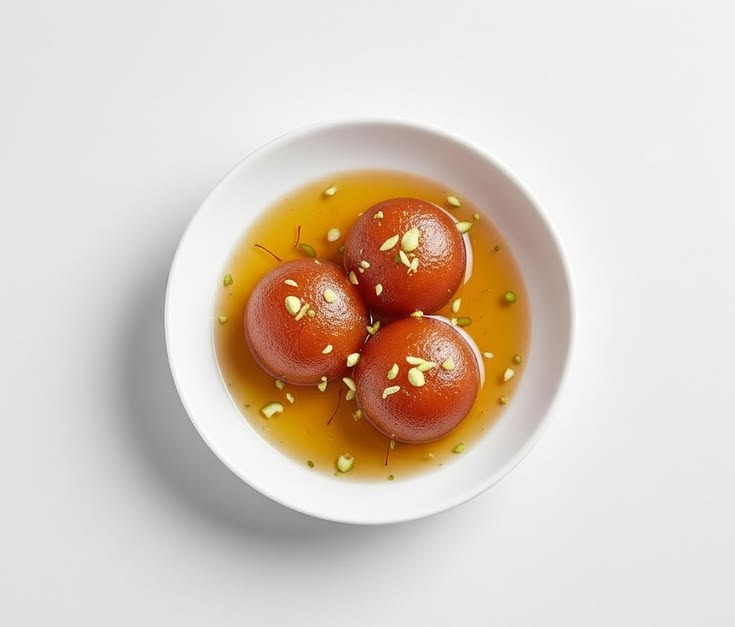
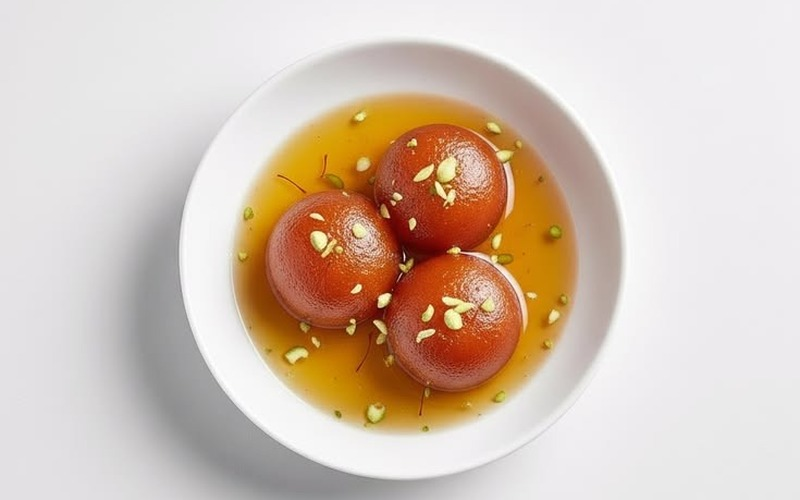
feat: standardize all dish images to fixed 800x500 dimensions and map 9 pasta & maggi dishes

Changed region(s): [[0.1497, 0.06, 0.7782, 1.0], [0.2395, 0.3, 0.2993, 0.39], [0.2095, 0.39, 0.2395, 0.45]]

diff --git a/src/data/menuData.js b/src/data/menuData.js
@@ -2822,7 +2822,7 @@ export const menuItems = [
     "isVeg": true,
     "isSpecial": false,
     "description": "Penne pasta tossed in spicy Indian onion-tomato masala with herbs.",
-    "image": "https://images.unsplash.com/photo-1621996346565-e3d5d6281724?q=80&w=800&auto=format&fit=crop"
+    "image": "/dishes/indian-masala-pasta.jpg"
   },
   {
     "id": "dish-270",
@@ -2832,7 +2832,7 @@ export const menuItems = [
     "isVeg": true,
     "isSpecial": false,
     "description": "Penne pasta in creamy b\u00e9chamel cheese sauce with sweet corn and bell peppers.",
-    "image": "https://images.unsplash.com/photo-1621996346565-e3d5d6281724?q=80&w=800&auto=format&fit=crop"
+    "image": "/dishes/white-sauce-pasta.jpg"
   },
   {
     "id": "dish-271",
@@ -2842,7 +2842,7 @@ export const menuItems = [
     "isVeg": true,
     "isSpecial": false,
     "description": "Penne pasta tossed in tangy Italian marinara tomato basil sauce.",
-    "image": "https://images.unsplash.com/photo-1621996346565-e3d5d6281724?q=80&w=800&auto=format&fit=crop"
+    "image": "/dishes/red-sauce-pasta.jpg"
   },
   {
     "id": "dish-272",
@@ -2932,7 +2932,7 @@ export const menuItems = [
     "isVeg": true,
     "isSpecial": false,
     "description": "Steaming hot classic 2-minute comfort noodles.",
-    "image": "https://images.unsplash.com/photo-1612927601601-6638404737ce?q=80&w=800&auto=format&fit=crop"
+    "image": "/dishes/plain-maggi.jpg"
   },
   {
     "id": "dish-281",
@@ -2942,7 +2942,7 @@ export const menuItems = [
     "isVeg": true,
     "isSpecial": false,
     "description": "Hot Maggi noodles topped with sweet corn and melted cheese.",
-    "image": "https://images.unsplash.com/photo-1612927601601-6638404737ce?q=80&w=800&auto=format&fit=crop"
+    "image": "/dishes/cheese-corn-maggi.jpg"
   },
   {
     "id": "dish-282",
@@ -2952,7 +2952,7 @@ export const menuItems = [
     "isVeg": true,
     "isSpecial": false,
     "description": "Maggi noodles tossed with saut\u00e9ed onions, tomatoes, and green peas.",
-    "image": "https://images.unsplash.com/photo-1612927601601-6638404737ce?q=80&w=800&auto=format&fit=crop"
+    "image": "/dishes/indian-masala-maggi.jpg"
   },
   {
     "id": "dish-283",
@@ -2962,7 +2962,7 @@ export const menuItems = [
     "isVeg": true,
     "isSpecial": false,
     "description": "Comforting Maggi noodles blended with creamy melted cheese.",
-    "image": "https://images.unsplash.com/photo-1612927601601-6638404737ce?q=80&w=800&auto=format&fit=crop"
+    "image": "/dishes/cheese-maggi.jpg"
   },
   {
     "id": "dish-284",
@@ -2972,7 +2972,7 @@ export const menuItems = [
     "isVeg": true,
     "isSpecial": false,
     "description": "Stir-fried dry Maggi noodles with crunchy vegetables and spices.",
-    "image": "https://images.unsplash.com/photo-1612927601601-6638404737ce?q=80&w=800&auto=format&fit=crop"
+    "image": "/dishes/dry-fry-maggi.jpg"
   },
   {
     "id": "dish-285",
@@ -2982,7 +2982,7 @@ export const menuItems = [
     "isVeg": true,
     "isSpecial": false,
     "description": "Maggi noodles topped with grilled spiced paneer tikka chunks.",
-    "image": "https://images.unsplash.com/photo-1612927601601-6638404737ce?q=80&w=800&auto=format&fit=crop"
+    "image": "/dishes/paneer-tikka-maggi.jpg"
   },
   {
     "id": "dish-286",

diff --git a/src/components/MenuCard.jsx b/src/components/MenuCard.jsx
@@ -15,14 +15,14 @@ export default function MenuCard({ item, onSelect }) {
     >
       {/* Food Photograph / Consistent Visual Container */}
       <div>
-        <div className="relative aspect-[16/10] overflow-hidden bg-forest-dark select-none">
+        <div className="relative w-full aspect-[16/10] overflow-hidden bg-forest-dark select-none">
           {hasImage ? (
             <img
               src={item.image}
               alt={displayName}
               loading="lazy"
               onError={() => setImgError(true)}
-              className="w-full h-full object-cover transform group-hover:scale-105 transition-transform duration-700 ease-out"
+              className="w-full h-full object-cover object-center transform group-hover:scale-105 transition-transform duration-700 ease-out"
             />
           ) : (
             /* Graceful Placeholder when Image is Not Available */

diff --git a/src/components/MenuItemModal.jsx b/src/components/MenuItemModal.jsx
@@ -37,14 +37,14 @@ export default function MenuItemModal({ item, onClose }) {
           <X size={20} />
         </button>
 
-        {/* Modal Image Header */}
-        <div className="relative aspect-[16/9] w-full bg-forest-dark overflow-hidden">
+        {/* Modal Image Header with Fixed Aspect Ratio */}
+        <div className="relative aspect-[16/10] sm:aspect-[16/9] max-h-80 w-full bg-forest-dark overflow-hidden">
           {hasImage ? (
             <img
               src={item.image}
               alt={displayName}
               onError={() => setImgError(true)}
-              className="w-full h-full object-cover"
+              className="w-full h-full object-cover object-center"
             />
           ) : (
             <div className="w-full h-full flex flex-col items-center justify-center bg-gradient-to-br from-forest-dark to-forest text-gold/80 p-8 text-center space-y-2">
